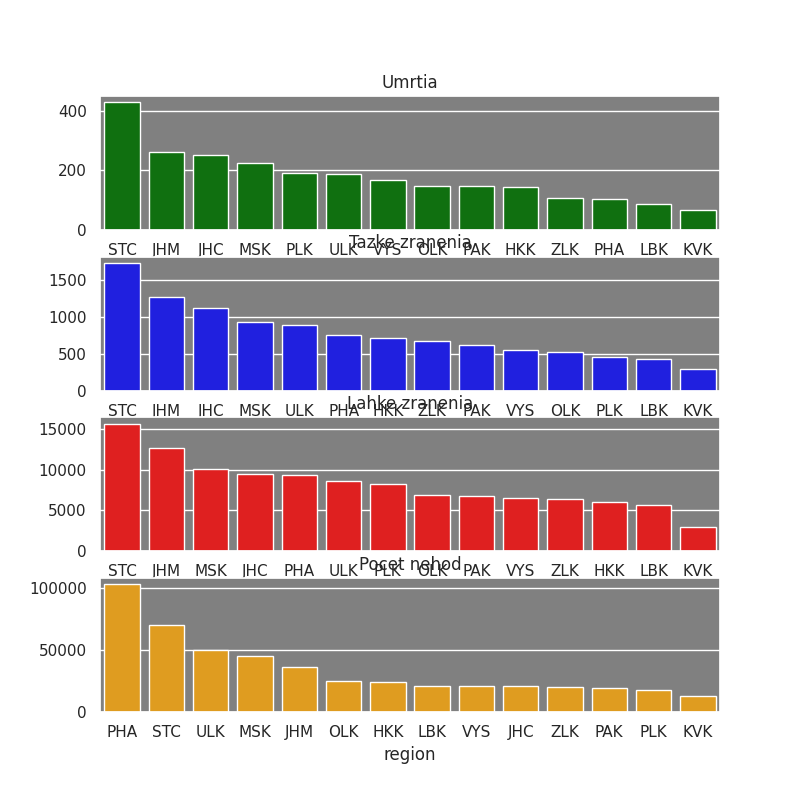
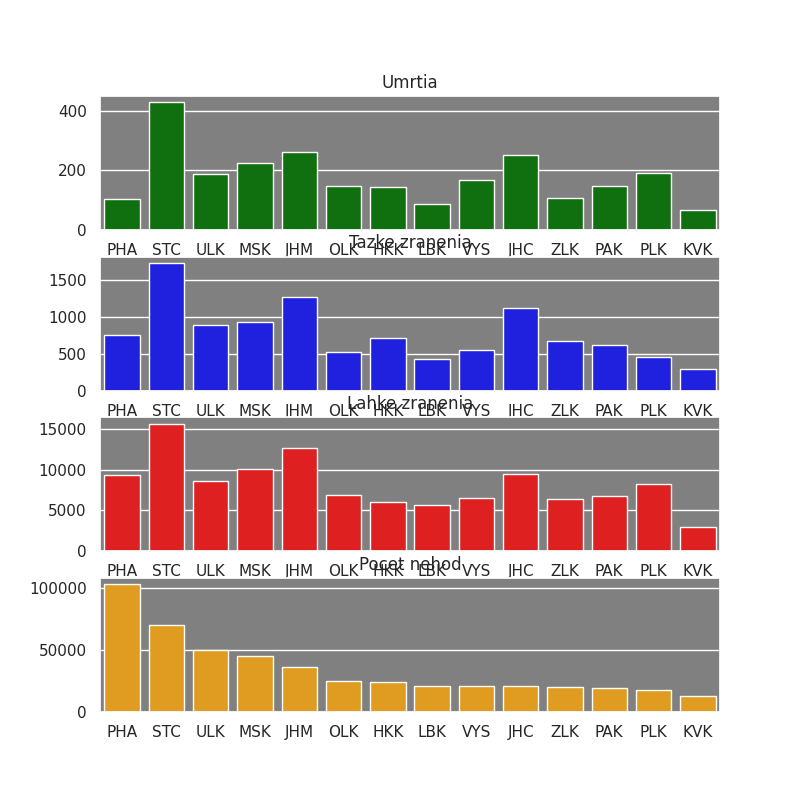
yeet

diff --git a/analysis.py b/analysis.py
@@ -37,21 +37,24 @@ def plot_conseq(df: pd.DataFrame, fig_location: str = None,
     fig, axes=plt.subplots(4, 1, figsize=(8, 8))
     ax = axes.flatten()
 
+    aggrmax = df.groupby('region')['p13a'].count()
+    aggrmax = aggrmax.sort_values(ascending=False)
+    sns.barplot(ax=ax[3], x=aggrmax.index, y=aggrmax.values, color="orange").set_title("Pocet nehod")
+
     aggr = df.groupby('region')['p13a'].sum()
     aggr = aggr.sort_values(ascending=False)
-    sns.barplot(ax=ax[0], x=aggr.index, y=aggr.values, color="green").set_title("Umrtia")
+    sns.barplot(ax=ax[0], x=aggr.index, y=aggr.values, color="green", order=aggrmax.index).set_title("Umrtia")
 
     aggr = df.groupby('region')['p13b'].sum()
     aggr = aggr.sort_values(ascending=False)
-    sns.barplot(ax=ax[1], x=aggr.index, y=aggr.values, color="blue").set_title("Tazke zranenia")
+    sns.barplot(ax=ax[1], x=aggr.index, y=aggr.values, color="blue", order=aggrmax.index).set_title("Tazke zranenia")
 
     aggr = df.groupby('region')['p13c'].sum()
     aggr = aggr.sort_values(ascending=False)
-    sns.barplot(ax=ax[2], x=aggr.index, y=aggr.values, color="red").set_title("Lahke zranenia")
+    sns.barplot(ax=ax[2], x=aggr.index, y=aggr.values, color="red", order=aggrmax.index).set_title("Lahke zranenia")
 
-    aggr = df.groupby('region')['p13a'].count()
-    aggr = aggr.sort_values(ascending=False)
-    sns.barplot(ax=ax[3], x=aggr.index, y=aggr.values, color="orange").set_title("Pocet nehod")
+    for i in range(4):
+        ax[i].set_xlabel('')
 
     if (fig_location):
         plt.savefig(fig_location)
@@ -64,26 +67,40 @@ def plot_conseq(df: pd.DataFrame, fig_location: str = None,
 # Ukol3: příčina nehody a škoda
 def plot_damage(df: pd.DataFrame, fig_location: str = None,
                 show_figure: bool = False):
+    regions = ['JHM', 'PHA', 'STC', 'HKK']
     sns.set(rc={'axes.facecolor':'grey'})
-    fig, axes=plt.subplots(2, 2, figsize=(8, 8))
-    #axes.set(yscale="log")
+    fig, axes=plt.subplots(2, 2, figsize=(16, 8))
     ax = axes.flatten()
 
-    jhm = df.loc[df['region'] == 'JHM']
-    bins = pd.IntervalIndex.from_tuples([(99, 101), (200, 209), (300, 311),
-                                         (400, 414), (500, 516), (600, 615)])
-    labels = ["nezavineno", "rychlost", "predjizdeni", 
-              "prednost", "zpusob", "zavada"]                                        
-    causes = pd.cut(jhm['p12'], bins=bins, labels=labels)
-    #new_df = pd.DataFrame(cut)
-    jhm['p53'] = jhm['p53'] / 10
-    bins = pd.IntervalIndex.from_tuples([(-2, 50), (50, 199), (200, 499),
-                                         (500, 999), (1000, 1000000)])
-    costs = pd.cut(jhm['p53'], bins=bins)
-    frame = causes.to_frame()
-    frame["cost"] = costs
-    a = sns.countplot(data=frame, x="cost", hue="p12", ax=ax[0]).set_title("JHM")
+    i = 0
+    for region in regions:
+        ax[i].set(yscale="log")
+        jhm = df.loc[df['region'] == region]
+        bins = pd.IntervalIndex.from_tuples([(99, 101), (200, 209), (300, 311),
+                                            (400, 414), (500, 516), (600, 615)])
+        labels = ["nezavineno", "rychlost", "predjizdeni", 
+                "prednost", "zpusob jizdy", "zavada"]                                        
+        causes = pd.cut(jhm['p12'], bins=bins, labels=labels)
+        bins = pd.IntervalIndex.from_tuples([(-2, 50), (50, 199), (200, 499),
+                                            (500, 999), (1000, 1000000)])
+        costs = pd.cut(jhm['p53'].div(10), bins=bins)
+        frame = causes.to_frame()
+        frame["cost"] = costs
+        sns.countplot(data=frame, x="cost", hue="p12", ax=ax[i]).set_title(region)
+        ax[i].set_xlabel('Skoda[tisic KC]')
+        ax[i].set_xticklabels(["<50", "50-200", "200-500", "500-1000", ">1000"])
+        ax[i].set_ylabel('Pocet')
+        ax[i].get_legend().remove()
+        i += 1
+    handles, labelis = ax[3].get_legend_handles_labels()
+    fig.legend(handles, labels, bbox_to_anchor=(1, 0.6))
+
     plt.tight_layout()
+    plt.subplots_adjust(right=0.9)
+
+    if (fig_location):
+        plt.savefig(fig_location)
+
     if (show_figure):
         plt.show()
                            
@@ -100,6 +117,6 @@ if __name__ == "__main__":
     # skript nebude pri testovani pousten primo, ale budou volany konkreni ¨
     # funkce.
     df = get_dataframe("accidents.pkl.gz")
-    #plot_conseq(df, fig_location="01_nasledky.png", show_figure=True)
+    plot_conseq(df, fig_location="01_nasledky.png", show_figure=True)
     plot_damage(df, "02_priciny.png", True)
     plot_surface(df, "03_stav.png", True)
